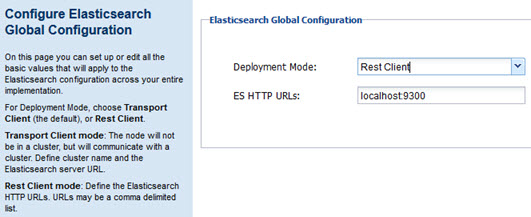
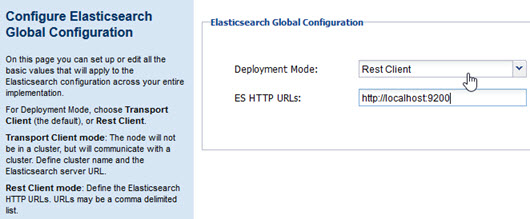
ATMO-25643 ES doc updates

diff --git a/sp/platform_install/install_es_config.htm b/sp/platform_install/install_es_config.htm
@@ -12,7 +12,7 @@ nav-title: Installing and Configuring Elasticsearch
 <h2><a name="top"></a>Installing and Configuring Elasticsearch</h2>
 <p>This document provides reference information and examples relating to installation and configuration of the Elasticsearch search feature for the Akana API Platform developer portal.</p>
 <h5 class="stamp">API Platform Version: 8.1 and later. Updated for 2018.0.0.</h5>
-<p><strong>Note</strong>: For information about secure configuration of Elasticsearch, see <a href="install_es_secure_tc.htm">Configuring Elasticsearch with Transport Client security</a>.</p>
+<p><strong>Note</strong>: For information about secure configuration of Elasticsearch, see <a href="install_es_secure_tc.htm">Configuring Elasticsearch with security</a>.</p>
 <div class = "divider1"></div>
 
 
@@ -25,6 +25,7 @@ nav-title: Installing and Configuring Elasticsearch
 	<li><a href="#es_about">About the Elasticsearch feature</a></li>
 	<li><a href="#es_version">Elasticsearch version</a></li>
 	<li><a href="#es_planning">Planning your Elasticsearch feature</a></li>
+	<li><a href="#es_deployment_mode">Should I choose Transport Client or REST Client mode?</a></li>
 	<li><a href="#es_ref_info">Links to additional information about Elasticsearch</a></li>
 </ol>
 
@@ -41,18 +42,7 @@ nav-title: Installing and Configuring Elasticsearch
 		</ol>
 	</li>
 	<li><a href="#config_es_ac">How do I configure Elasticsearch?</a></li>
-	<li><a href="#es_deployment_mode">Should I choose Transport Client or REST Client mode?</a></li>
 	<li><a href="#es_config_settings">How do I configure the number of nodes and shards?</a></li>
-</ol>
-
-
-
-<h5 style="color: gray;"><a href="#h_es_troubleshooting">Troubleshooting Elasticsearch:</a></h5>
-
-
-<ol class="table_of_contents">
-	<li><a href="#es_ts_port_config">Elasticsearch client can't connect to the nodes</a></li>
-	<li><a href="#es_index_clear">How do I clear out the Elasticsearch index?</a></li>
 </ol>
 
 
@@ -70,9 +60,10 @@ nav-title: Installing and Configuring Elasticsearch
 <p>All containers running the Akana API Platform can use Elasticsearch. A cluster is recommended for redundancy.</p>
 <p>There are two deployment options:</p>
 <ul>
-	<li><strong>Transport Client</strong>: previously supported by the platform.</li>
+	<li><strong>Transport Client</strong>: previously supported by the platform (not recommended for 2018.0.0).</li>
 	<li><strong>REST Client</strong>: New in 2018.0.0.</li>
 </ul>
+<p>For more information on these choices, see <a href="#es_deployment_mode">Should I choose Transport Client or REST Client mode?</a> below.</p>
 <p>Administration of Elasticsearch is done with the configuration wizard in the Akana Administration Console.</p>
 <p>For more information on Elasticsearch terminology, refer to the Elasticsearch glossary: <a href="https://www.elastic.co/guide/en/elasticsearch/reference/current/glossary.html" title="Elasticsearch glossary of terms" target="_blank">https://www.elastic.co/guide/en/elasticsearch/reference/current/glossary.html</a>.</p>
 <p><strong>Note</strong>: In version 8.0, Elasticsearch embedded mode was offered as a short-term option to help customers to migrate from Compass to Elasticsearch. This was never the recommended option; standalone mode is better. In version 2018.0.0, only standalone mode is supported.</p>
@@ -82,7 +73,7 @@ nav-title: Installing and Configuring Elasticsearch
 
 <h3 id="es_version">Elasticsearch version</h3>
 <p>Support for Elasticsearch was introduced in Akana API Platform version 8.0. The initial version, and all later versions prior to 2018.0.0, use Elasticsearch 1.5.</p>
-<p>In version 2018.0.0, the Akana API platform uses Elasticsearch 6.3.1.</p>
+<p>In version 2018.0.0, the Akana API platform uses Elasticsearch 6.3.1. See <a href="#es_installing">Installing Elasticsearch</a>.</p>
 <p><a href="#top">Back to top</a></p>
 
 
@@ -98,10 +89,21 @@ nav-title: Installing and Configuring Elasticsearch
 
 
 
+<h3 id="es_deployment_mode">Should I choose Transport Client or REST Client mode?</h3>
+<p>There are two options for <strong>Deployment Mode</strong>:</p>
+<ul>
+	<li><strong>Transport Client</strong>: The client uses a TCP connection to communicate to the Elasticsearch server or cluster. Transport Client mode will be deprecated in a later version of Elasticsearch, and will be removed in 8.0. It's best to use REST Client.</li>
+	<li><strong>REST Client:</strong> The client communicates to the Elasticsearch server or cluster by accessing a URL. Introduced in a recent version of Elasticsearch. Recommended.</li>
+</ul>
+<p><a href="#top">Back to top</a></p>
+
+
+
 <h3 id="es_ref_info">Links to additional information about Elasticsearch</h3>
 <p>For more information about Elasticsearch, refer to the following:</p>
 <ul>
-	<li><a href="install_es_secure_tc.htm">Configuring Elasticsearch with Security</a></li>
+	<li>Elasticsearch website: <a href="https://www.elastic.co/">https://www.elastic.co/</a></li>
+	<li><a href="install_es_secure_tc.htm">Configuring Elasticsearch with Security</a> (specific to Akana)</li>
 	<li>Elasticsearch glossary: <a href="https://www.elastic.co/guide/en/elasticsearch/reference/current/glossary.html" title="Elasticsearch glossary of terms" target="_blank">https://www.elastic.co/guide/en/elasticsearch/reference/current/glossary.html</a></li>
 </ul>
 <p><a href="#top">Back to top</a></p>
@@ -142,19 +144,19 @@ nav-title: Installing and Configuring Elasticsearch
 	<li>Cluster name: needed for both Transport Client and REST Client. For example:
 		<pre>cluster.name: akana</pre>
 	</li>
-	<li>Node name: needed for Transport Client, if you want to name your own node. For example:
+	<li>Node name: needed for both Transport Client and REST Client, if you want to name your own node. For example:
 		<pre>node.name: node-1</pre>
 	</li>
 	<li>Transport TCP port: needed for Transport Client. For example:
 		<pre>transport.tcp.port: 9300</pre>
 	</li>
-	<li>Path to directory where to store the data: needed for all. For example:
-		<pre>c:/_elastic631/data</pre>
+	<li>Path to directory where to store the data: needed for both. For example:
+		<pre>/vars/elasticsearch/data</pre>
 	</li>
 	<li>Optional if you don't want to bind to all interfaces: Set the bind address to a specific IP. For example:
 		<pre>network.host: 192.164.0.1</pre>
 	</li>
-	<li>Pass an initial list of hosts to perform discovery when new node is started. For example:
+	<li>Pass an initial list of hostnames for all the nodes in the cluster, to provide a seed list of other nodes in the cluster that are likely to be live and contactable, as part of discovery. See <a href="https://www.elastic.co/guide/en/elasticsearch/reference/6.4/discovery-settings.html#unicast.hosts">Discovery Settings</a> on the Elasticsearch website. For example:
 		<pre>discovery.zen.ping.unicast.hosts: [&quot;localhost&quot;, &quot;[::1]&quot;]</pre>
 	</li>
 </ul>
@@ -193,11 +195,11 @@ node.name: node-1
 #
 # Path to directory where to store the data (separate multiple locations by comma):
 #
-path.data: c:/_elastic631/data
+path.data: /vars/elasticsearch/data
 #
 # Path to log files:
 #
-path.logs: c:/_elastic631/logs
+path.logs: /vars/elasticsearch/logs
 #
 # ----------------------------------- Memory -----------------------------------
 #
@@ -270,42 +272,48 @@ discovery.zen.minimum_master_nodes: 1
 	<li><a href="#proc_es_global_config_tc">Transport Client</a></li>
 	<li><a href="#proc_es_global_config_rc">REST Client</a> (recommended)</li>
 </ul>
-<p>For information on which mode to choose, see <a href="#es_deployment_mode">Should I choose Transport Client or REST Client mode?</a> below.</p>
+<p>For information on which mode to choose, see <a href="#es_deployment_mode">Should I choose Transport Client or REST Client mode?</a></p>
 
 <h5 id="proc_es_global_config_tc">Configure Elasticsearch Global Configuration: Transport Client</h5>
 <ol>
 	<li>In the Akana Administration Console, on the <strong>Configuration</strong> tab, under <strong>Configuration Actions</strong>, choose <strong>Configure Elasticsearch Global Configuration</strong>. The wizard opens.</li>
 	<li>Make sure the Deployment Mode is set to <strong>Transport Client</strong>, as shown below.
 		<p><img src="images_2018/es_global_config_tc.jpg" alt="Configure Elasticsearch Global Configuration: Transport Client" /></p>
-	</li>
+		</li>
 	<li>Provide the name of the cluster for the Elasticsearch feature; for example, <strong>akana</strong>.</li>
-	<li>In the ES Server URL field, provide the transport address for the Elasticsearch server (one or more, separated by commas), in the format: {hostname}:{port}. For example, <strong>10.12.121.116:9300</strong> or <strong>10.12.121.116:9300,10.12.122.140:9300</strong>.</li>
+	<li>In the ES Server URL field, provide the transport address for the Elasticsearch server (one or more, separated by commas), in the format: {hostname}:{port}. Examples:
+		<ul>
+			<li>localhost:9300</li>
+			<li>10.12.121.116:9300</li>
+			<li>10.12.121.116:9300,10.12.122.140:9300</li>
+		</ul>
+		</li>
+	
 	<li>Click <strong>Finish</strong> and then click <strong>Close</strong>.</li>
 </ol>
 <h5 id="proc_es_global_config_rc">Configure Elasticsearch Global Configuration: REST Client</h5>
 <ol>
 	<li>In the Akana Administration Console, on the <strong>Configuration</strong> tab, under <strong>Configuration Actions</strong>, choose <strong>Configure Elasticsearch Global Configuration</strong>. The wizard opens.</li>
 	<li>For Deployment Mode, choose <strong>REST Client</strong>.
-	<p><img src="images_2018/es_global_config_rc.jpg" alt="Configure Elasticsearch Global Configuration: REST Client" /></p></li>
-	<li>In the <strong>ES HTTP URLs</strong> field, provide the HTTP URLs for each container where Elasticsearch is running. Provide full URLs; use a comma separator between values.</li>
+		<p><img src="images_2018/es_global_config_rc.jpg" alt="Configure Elasticsearch Global Configuration: REST Client" /></p></li>
+	<li>In the <strong>ES HTTP URLs</strong> field, provide the HTTP URLs for each container where Elasticsearch is running. Provide full URLs; use a comma separator between values. Examples:
+		<ul>
+			<li>http://localhost:9200</li>
+			<li>https://localhost:9200</li>
+			<li>http://localhost:9200,http://localhost:9250</li>
+		</ul>
+		<p><strong>Note</strong>: If there are multiple URLs, the protocol must be the same for all. For example, you cannot mix HTTP and HTTPS.</p>
+		</li>
+	
 	<li>Click <strong>Finish</strong> and then click <strong>Close</strong>.</li>
 </ol>
 <p><a href="#top">Back to top</a></p>
 
 
 
-<h3 id="es_deployment_mode">Should I choose Transport Client or REST Client mode?</h3>
-<p>There are two options for <strong>Deployment Mode</strong>:</p>
-<ul>
-	<li><strong>Transport Client</strong>: The client uses a TCP connection to communicate to the Elasticsearch server or cluster. Transport Client mode will be deprecated in a later version of Elasticsearch, and will be removed in 8.0. It's best to use REST Client.</li>
-	<li><strong>REST Client:</strong> The client communicates to the Elasticsearch server or cluster by accessing a URL. Introduced in a recent version of Elasticsearch. Recommended. Elasticsearch still uses TCP for node to node communications, but not for client to Elasticsearch cluster communications.</li>
-</ul>
-<p><a href="#top">Back to top</a></p>
-
-
-
 <h3 id="es_config_settings">How do I configure the number of nodes and shards?</h3>
 <h5 class="stamp">New in version: 8.0.3</h5>
+<p class="apidoc_note"><strong>Note</strong>: This step is optional. The platform defaults are sufficient.</p>
 <p>The platform includes configuration settings that you can use to manage your Elasticsearch setup. These are controlled by configuration settings in the Akana Administration Console.</p>
 <p>In the Akana Administration Console, the configuration category is: <strong>com.akana.elasticsearch</strong>.</p>
 <p>In the default configuration, shown below, there are two shards and one replica. Let's say there are two nodes in the cluster. One shard, approximately half the index, is stored on each node. The one replica includes a replica of each shard:</p>
@@ -333,26 +341,6 @@ discovery.zen.minimum_master_nodes: 1
 
 
 <div class = "divider1"></div>
-<h3 id="h_es_troubleshooting">Troubleshooting Elasticsearch:</h3>
-
-
-
-
-<h3 id="es_ts_port_config">Elasticsearch client can't connect to the nodes</h3>
-<p>If the Elasticsearch client can't connect to the nodes, and/or the nodes can't connect to each other, check that you have the default Elasticsearch ports (all ports in the range 9300–9305) available on every container that the Elasticsearch feature is installed on.</p>
-<p>For more information, see <a href="#es_yaml">What changes do I need to make to the Elasticsearch YAML file?</a></p>
-<p><a href="#top">Back to top</a></p>
-
-
-
-<h3 id="es_index_clear">How do I clear out the Elasticsearch index?</h3>
-<p>If you need to clear the Elasticsearch index, empty the INDEX_STATUS table in the database.</p>
-<p><a href="#top">Back to top</a></p>
-
-
-
-
-<div class = "divider1"></div>
 
 
 
@@ -367,7 +355,7 @@ discovery.zen.minimum_master_nodes: 1
 	<li><a href="install_cm_jython_script.htm">Installation Jython Script</a></li>
 	<li><a href="implementation_planning.htm">Planning Your Implementation</a></li>
 	<li><a href="install_es_config.htm">Installing and Configuring Elasticsearch</a></li>
-	<li><a href="install_es_secure_tc.htm">Configuring Elasticsearch with Transport Client security</a></li>
+	<li><a href="install_es_secure_tc.htm">Configuring Elasticsearch with security</a></li>
 	<li><a href="install_mysql_dbsettings.htm">MySQL Database Property Settings</a></li>
 </ul>
 <ul>

diff --git a/sp/platform_install/install_es_secure_tc.htm b/sp/platform_install/install_es_secure_tc.htm
@@ -10,12 +10,12 @@ type: page
 nav-title: Configuring Elasticsearch with security
 ---
 <h2 id="top">Configuring Elasticsearch with Security</h2>
-<p>If you're using Elasticsearch and want security over SSL/TLS to add encryption for node to node communication and cluster communication, you'll need to complete some additional setup and configuration steps. </p>
+<p>If you're using Elasticsearch and want security over SSL/TLS to add encryption for node to node communication and client communication, you'll need to complete some additional setup and configuration steps. </p>
 <p>This document provides information about implementing security for Elasticsearch. Depending on your API Platform version, you'll use one of these:</p>
 <ul>
-	<li><strong>X-Pack</strong>: Version 2018.0.0 uses Elasticsearch 6.3.1, which uses X-Pack for security. 
+	<li><strong>X-Pack</strong>: Version 2018.0.0 uses Elasticsearch 6.3.1, which uses X-Pack for security.
 		<p>X-Pack is bundled with the Elasticsearch install, but requires a license for activation.</p></li>
-	<li><strong>Shield</strong>: Versions prior to 2018.0.0 use Elasticsearch 1.5, which uses Shield for security.
+	<li><strong>Shield</strong>: Versions prior to 2018.0.0 use Elasticsearch 1.5, which uses Shield for security. Shield is not supported in version 2018.0.0.
 		<p>For full details about installing Shield, see <a href="https://www.elastic.co/guide/en/shield/shield-1.3/installing-shield.html" title="Elasticsearch Shield website" target="_blank">https://www.elastic.co/guide/en/shield/shield-1.3/installing-shield.html</a>.</p></li>
 </ul>
 
@@ -96,7 +96,7 @@ nav-title: Configuring Elasticsearch with security
 <p><strong>Message body:</strong></p>
 <pre>{
   "cluster":[
-    "all or the cluster name in elasticsearch.yaml"
+    "all or the cluster name in elasticsearch.yml"
   ],
   "indices":[
     {
@@ -115,7 +115,7 @@ nav-title: Configuring Elasticsearch with security
 <p><strong>Message body:</strong></p>
 <pre>{
   "cluster":[
-    "all or the cluster name in elasticsearch.yaml"
+    "all or the cluster name in elasticsearch.yml"
   ],
   "indices":[
     {
@@ -186,93 +186,13 @@ nav-title: Configuring Elasticsearch with security
 </ol>
 
 <h5 id="yaml_xpack">Sample Elasticsearch YAML file with security settings</h5>
+<p><strong>Note</strong>: The example below excludes the first part of the YAML file, and shows only the last part, with the security settings. For an example of the first part of the file, see <a href="install_es_config.htm#yaml_sample_no_xpack">Sample Elasticsearch YAML file</a>.</p>
 <pre># ======================== Elasticsearch Configuration =========================
 #
-# NOTE: Elasticsearch comes with reasonable defaults for most settings.
-#       Before you set out to tweak and tune the configuration, make sure you
-#       understand what are you trying to accomplish and the consequences.
-#
-# The primary way of configuring a node is via this file. This template lists
-# the most important settings you may want to configure for a production cluster.
-#
-# Please consult the documentation for further information on configuration options:
-# https://www.elastic.co/guide/en/elasticsearch/reference/index.html
-#
-# ---------------------------------- Cluster -----------------------------------
-#
-# Use a descriptive name for your cluster:
-#
-cluster.name: akana
-#
-# ------------------------------------ Node ------------------------------------
-#
-# Use a descriptive name for the node:
-#
-node.name: node-1
-#
-# Add custom attributes to the node:
-#
-#node.attr.rack: r1
-#
-# ----------------------------------- Paths ------------------------------------
-#
-# Path to directory where to store the data (separate multiple locations by comma):
-#
-path.data: c:/_elastic631/data
-#
-# Path to log files:
-#
-path.logs: c:/_elastic631/logs
-#
-# ----------------------------------- Memory -----------------------------------
-#
-# Lock the memory on startup:
-#
-#bootstrap.memory_lock: true
-#
-# Make sure that the heap size is set to about half the memory available
-# on the system and that the owner of the process is allowed to use this
-# limit.
-#
-# Elasticsearch performs poorly when the system is swapping the memory.
-#
-# ---------------------------------- Network -----------------------------------
-#
-# Set the bind address to a specific IP (IPv4 or IPv6):
-#
-#network.host: 192.168.0.1
-network.host: 0.0.0.0
-
-transport.tcp.port: 9300
-#
-# Set a custom port for HTTP:
-#
-http.port: 9200
-#
-# For more information, consult the network module documentation.
-#
-# --------------------------------- Discovery ----------------------------------
-#
-# Pass an initial list of hosts to perform discovery when new node is started:
-# The default list of hosts is ["127.0.0.1", "[::1]"]
-#
-discovery.zen.ping.unicast.hosts: ["localhost", "[::1]"]
-#
-# Prevent the "split brain" by configuring the majority of nodes (total number of master-eligible nodes / 2 + 1):
-#
-discovery.zen.minimum_master_nodes: 1
-#
-# For more information, consult the zen discovery module documentation.
-#
-# ---------------------------------- Gateway -----------------------------------
-#
-# Block initial recovery after a full cluster restart until N nodes are started:
-#
-#gateway.recover_after_nodes: 3
-#
-# For more information, consult the gateway module documentation.
+...
 #
 # ---------------------------------- Various -----------------------------------
+# (This section is needed only if you want to configure security)
 #
 # Require explicit names when deleting indices:
 #
@@ -283,14 +203,13 @@ xpack.security.enabled: true
 #xpack.ssl.verification_mode: certificate
 
 #xpack.security.transport.ssl.enabled: true
+
+#pkcs12 or jks
 #xpack.security.transport.ssl.verification_mode: certificate 
 #xpack.security.transport.ssl.keystore.path: certs/elastic-certificates.p12 
 #xpack.security.transport.ssl.truststore.path: certs/elastic-certificates.p12
-#xpack.security.transport.ssl.certificate_authorities: [ "certs/ca.cer" ]
-#xpack.security.transport.ssl.key: certs/instance.key 
-#xpack.security.transport.ssl.certificate: certs/instance.crt 
-#xpack.security.transport.ssl.certificate_authorities: [ "certs/ca.crt" ]
 
+#pem
 #xpack.security.transport.ssl.verification_mode: certificate 
 #xpack.security.transport.ssl.key: certs\instance.key 
 #xpack.security.transport.ssl.certificate: certs\instance.crt 
@@ -299,12 +218,7 @@ xpack.security.enabled: true
 xpack.security.http.ssl.enabled: true
 xpack.ssl.verification_mode: certificate
 xpack.security.http.ssl.keystore.path: certs/elastic-certificates.p12 
-xpack.security.http.ssl.truststore.path: certs/elastic-certificates.p12
-
-#xpack.security.http.ssl.enabled: true
-#xpack.security.http.ssl.key:  /home/es/config/node01.key 
-#xpack.security.http.ssl.certificate: /home/es/config/node01.crt 
-#xpack.security.http.ssl.certificate_authorities: [ "/home/es/config/ca.crt" ]</pre>
+xpack.security.http.ssl.truststore.path: certs/elastic-certificates.p12</pre>
 <p><a href="#top">back to top</a></p>
 
 
@@ -357,7 +271,7 @@ xpack.security.http.ssl.truststore.path: certs/elastic-certificates.p12
 			</ul>
 	</li>
 	
-	<li>If the mode is Rest Client, only PKCS12 and JKS formats are accepted. Provide the following:
+	<li>If the mode is Rest Client, only PKCS12 and JKS formats are supported. Provide the following:
 		<ul>
 			<li>elastic.client.keystorePath</li>
 			<li>elastic.client.keystorePassword</li>
@@ -536,7 +450,7 @@ elastic.client.keystorePath</pre>
 	<li><a href="install_cm_jython_script.htm">Installation Jython Script</a></li>
 	<li><a href="implementation_planning.htm">Planning Your Implementation</a></li>
 	<li><a href="install_es_config.htm">Installing and Configuring Elasticsearch</a></li>
-<!--	<li><a href="install_es_secure_tc.htm">Configuring Elasticsearch with Transport Client security</a></li>-->
+<!--	<li><a href="install_es_secure_tc.htm">Configuring Elasticsearch with security</a></li>-->
 	<li><a href="install_mysql_dbsettings.htm">MySQL Database Property Settings</a></li>
 </ul>
 <ul>
